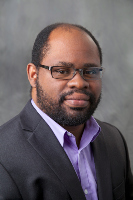
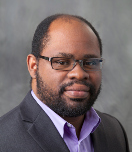
recortando imagenes

diff --git a/components/PreviousTalksComponent/NavPills_v2.js b/components/PreviousTalksComponent/NavPills_v2.js
@@ -113,8 +113,8 @@ export default function NavPills(props) {
                           <div className={classes.layoutItem}>
                             <Image
                               src={speakerImages[talk["speakerID"]]}
-                              width={250}
-                              height={200}
+                              width={230}
+                              height={230}
                               className={imageClasses}
                             />
                           </div>
